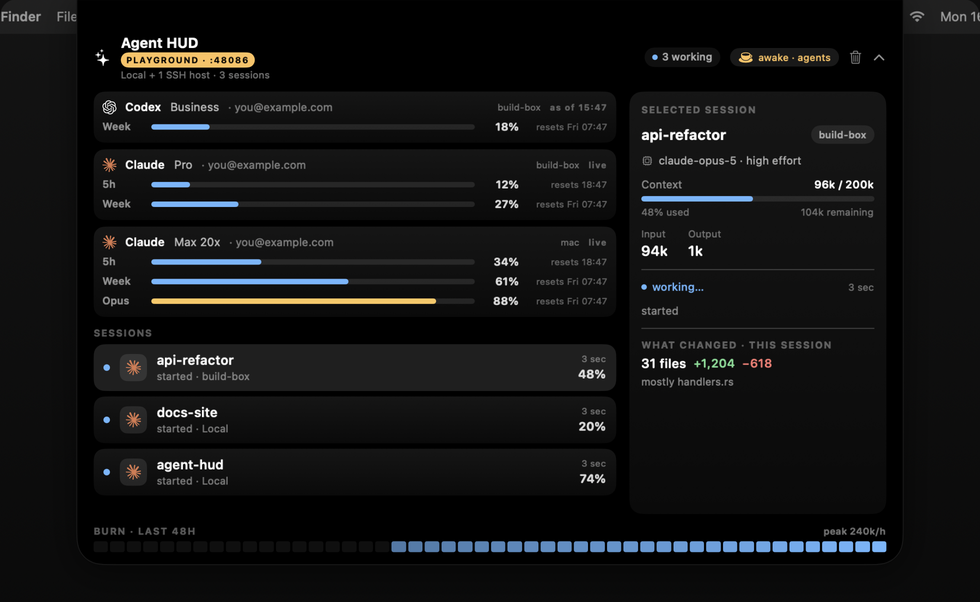
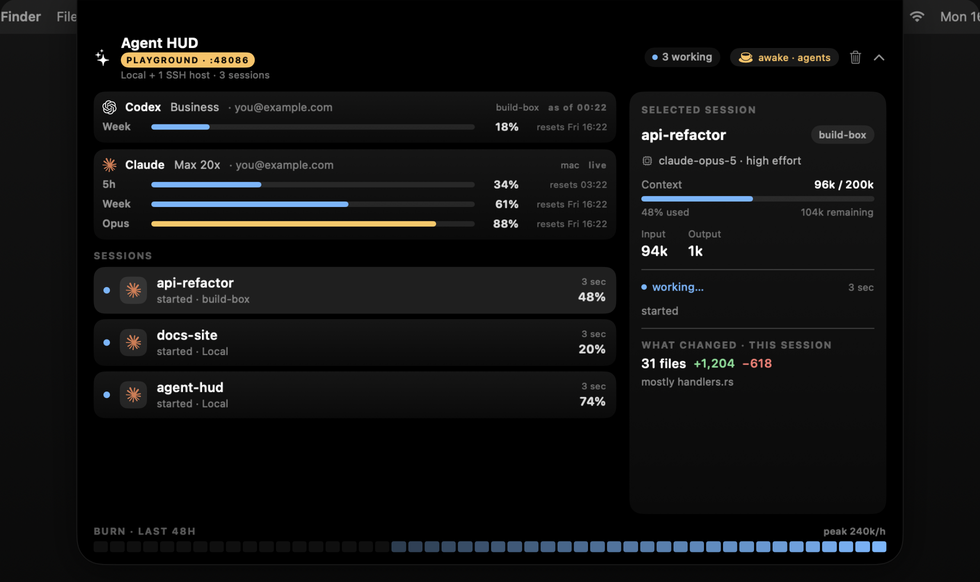
Reshoot the panel against what the code actually renders
The screenshot was staged on the grown-panel build and showed a taller
layout than the reverted, fixed-height panel can draw — three account
cards push the burn strip off the bottom. The demo now seeds two, so the
README shows what you would actually see.

diff --git a/README.md b/README.md
@@ -54,7 +54,7 @@ Hover the notch and it opens: every session across every machine, real rate
 limits per account, what changed this session, and the last 48 hours of burn.
 
 <p align="center">
-  <img src="assets/panel.png" alt="The open panel: rate limits for two Claude accounts and one Codex account, four live sessions, the selected session's context and diff, and a 48-hour burn strip" width="860">
+  <img src="assets/panel.png" alt="The open panel: rate limits for a Claude account and a Codex account, three live sessions, the selected session's context and diff, and a 48-hour burn strip" width="860">
 </p>
 
 <sub>Screenshots are staged with synthetic sessions (<code>make demo</code>) — the
